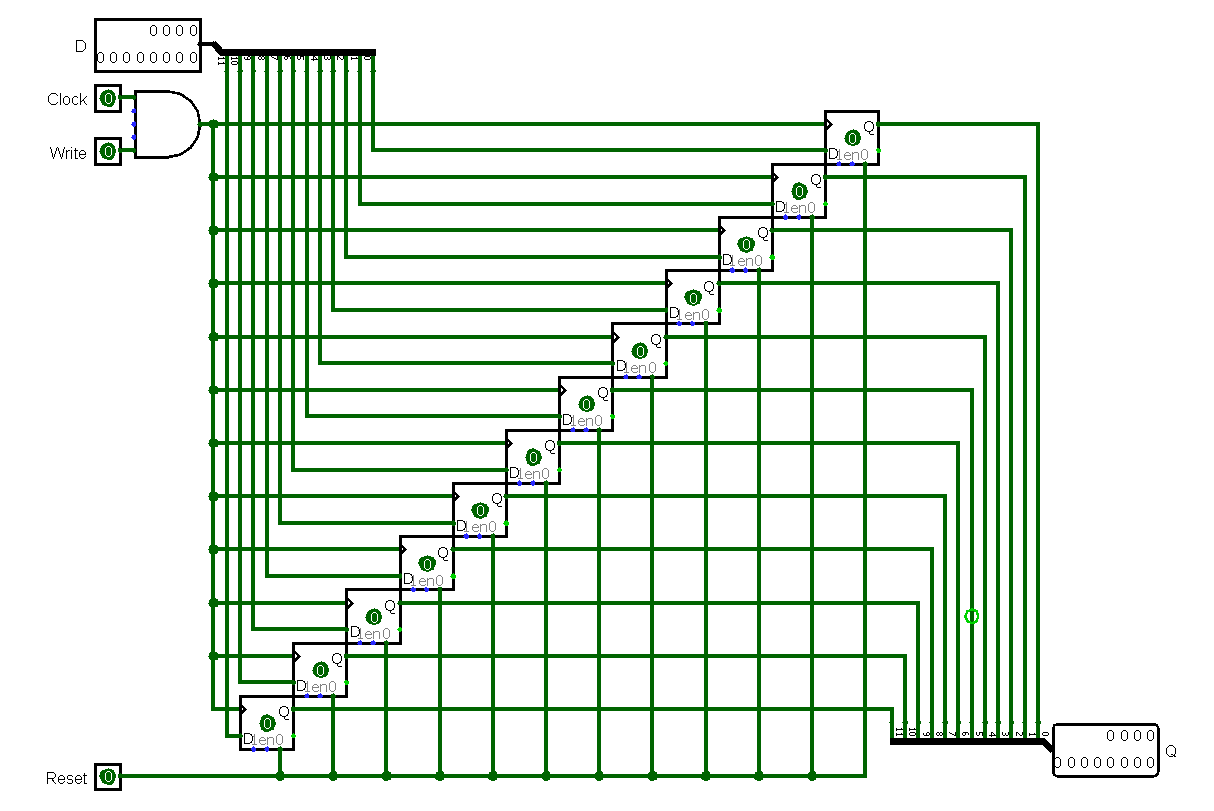
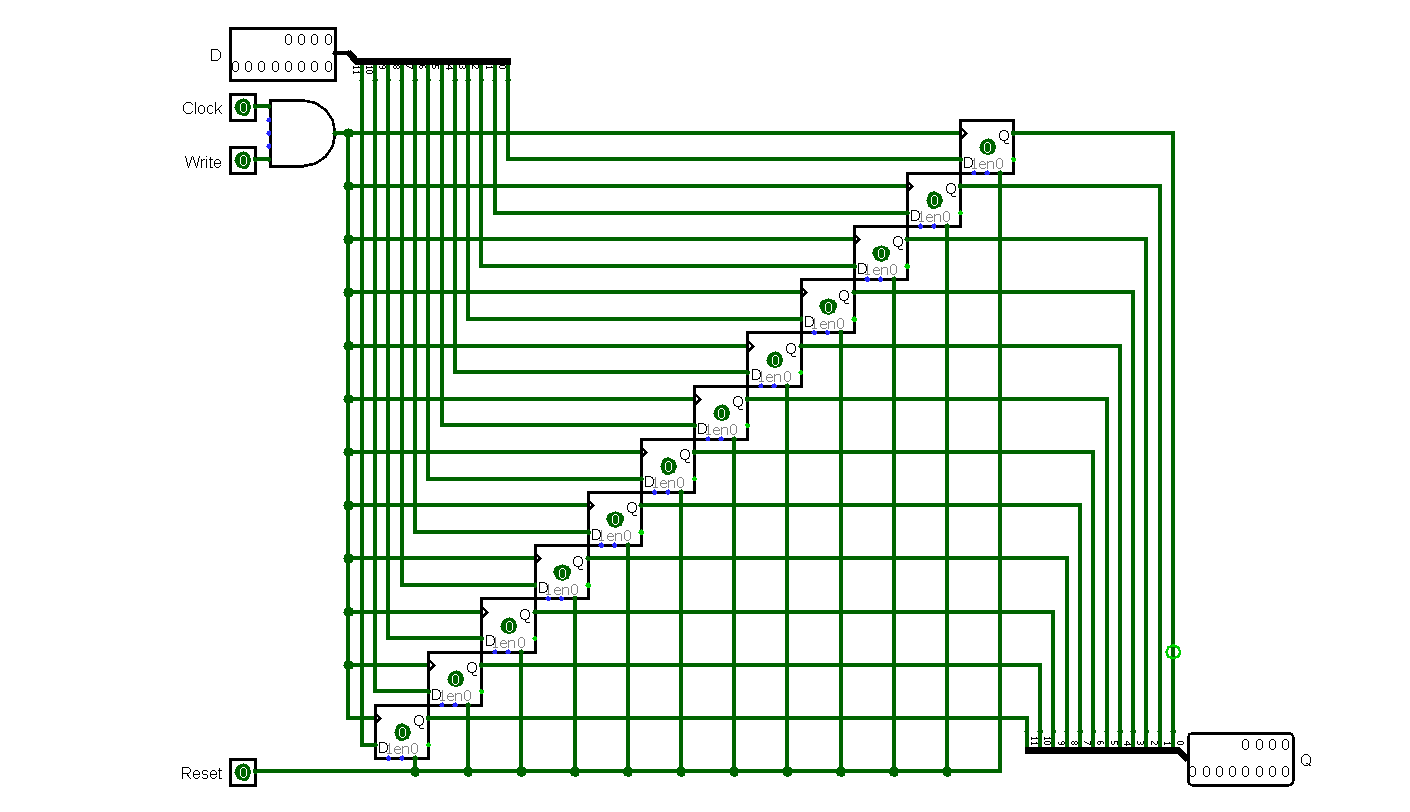
Verslag 4

Changed region(s): [[0.061, 0.0308, 0.9753, 0.9864], [0.0914, 0.0, 0.1524, 0.0308]]

diff --git a/CA_RPOJECT_4/Verslag.html b/CA_RPOJECT_4/Verslag.html
@@ -53,11 +53,33 @@
     </ul>
 
     <h2>12-bit register</h2>
+    <p>
+        In onze 12-bit register wordt de 12-bit data <b>d</b> input gesplit. 
+        Wanneer write aanstaat en de clock op falling edge is, zal elke bit 
+        individueel in een D Flip-Flop gestoken worden.
+    </p>
+    <p>
+        De 12-bit output <b>q</b> zal de outputs van all D Flip-Flops weer
+        achter elkaar plakken tot een 12-bit getal.
+    </p>
     <div style="text-align:center;">
         <img src="images/register.png" alt="Register"/>
     </div>
 
     <h2>Register file</h2>
+    <p>
+        Voor deze opdracht hebben we onze 12-bit registers uit de vorige 
+        opdracht hergebruikt. Er is een <b>rs</b> en <b>rt</b> die een 3-bit
+        input nemen. Hiermee kan er verwezen worden naar 1 van de 8 
+        registers in de register file. Doormiddel van een multiplexor zullen de
+        waarden van de geselecteerde inputs doorgegeven worden naar de outputs 
+        <b>rs</b> en <b>rt</b> respectivelijk.
+    </p>
+    <p>
+        Er is ook een 3-bit input <b>rd</b> die aangeeft naar welk register in
+        de register file geschreven zal worden. Er wordt geschreven op 
+        falling-edge en wanneer write op 1 staat.
+    </p>
     <div style="text-align:center;">
         <img src="images/register_file.png" alt="Register file"/>
     </div>
